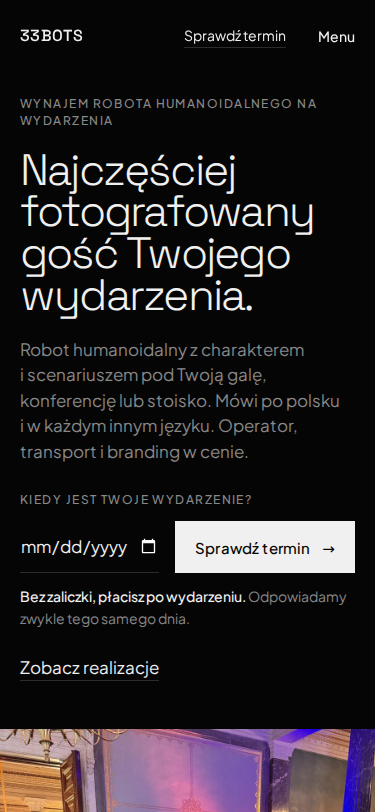
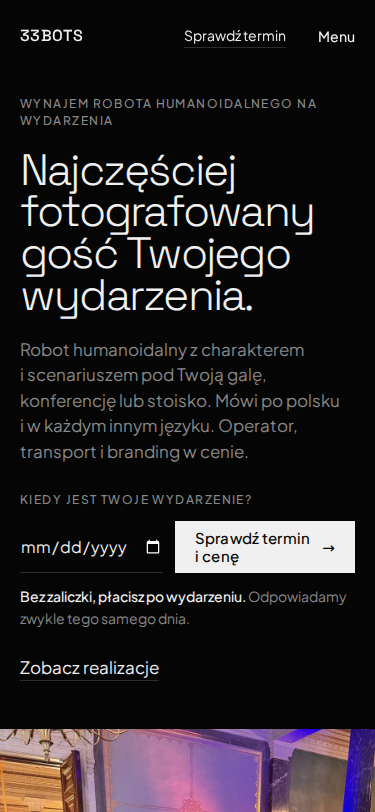
CTA .pl: „Sprawdź termin i cenę” zamiast „Sprawdź termin”
- hero, menu i formularz: przycisk obiecuje to, o co pyta każdy organizator —
  wolny termin i cenę; po sekcji cen: „Sprawdź termin i dokładną cenę”
- nawigacja i pasek mobilny zostają przy krótkim „Sprawdź termin”
- telefon: napis w dwóch liniach („Sprawdź termin / i cenę”), pole daty obok
  zostaje szerokie; kolumna minmax(0, 1fr), żeby rząd nie wychodził poza ekran

Claude-Session: https://claude.ai/code/session_01CABXHV9S3CJaXRngGHWVV2

diff --git a/index.html b/index.html
@@ -47,7 +47,7 @@ j=d.createElement(s),dl=l!='dataLayer'?'&l='+l:'';j.async=true;j.src=
 <link rel="stylesheet" href="assets-redesign.css?v=ecec55be" />
 
 <script>document.documentElement.classList.add('js');</script>
-<link rel="stylesheet" href="css/site.css?v=315bb713" />
+<link rel="stylesheet" href="css/site.css?v=d7bf1447" />
 
 <script type="application/ld+json">
 {"@context":"https://schema.org","@type":"Product","name":"Wynajem robota humanoidalnego Unitree G1","description":"Wynajem robota humanoidalnego Unitree G1 na eventy, targi i konferencje w całej Polsce.","url":"https://33bots.pl","image":"https://33bots.pl/robot-g1.jpg","brand":{"@type":"Brand","name":"Unitree"},"offers":{"@type":"AggregateOffer","priceCurrency":"PLN","lowPrice":"5500","highPrice":"6500","availability":"https://schema.org/InStock","url":"https://33bots.pl/#cennik","description":"Cały dzień realizacji z transportem, operatorem i brandingiem w cenie. Możliwy krótszy pokaz (wycena indywidualna) oraz realizacje wielodniowe z rabatem 15% na każdy dzień. Zero zaliczki, faktura po wydarzeniu."},"aggregateRating":{"@type":"AggregateRating","ratingValue":"5.0","reviewCount":"3","bestRating":"5","worstRating":"1"}}
@@ -225,7 +225,7 @@ height="0" width="0" style="display:none;visibility:hidden"></iframe></noscript>
       <li><a href="wdrozenia.html">Zakup i wdrożenia</a></li>
     </ul>
     <a class="nav__tel" href="tel:+48531408004" data-tel="menu">+48 531 408 004</a>
-    <a class="btn" href="#kontakt" data-cta="nav">Sprawdź dostępność terminu <span aria-hidden="true">→</span></a>
+    <a class="btn" href="#kontakt" data-cta="nav">Sprawdź termin i cenę <span aria-hidden="true">→</span></a>
   </div>
 </header>
 
@@ -244,7 +244,7 @@ height="0" width="0" style="display:none;visibility:hidden"></iframe></noscript>
         <label class="label" for="heroData">Kiedy jest Twoje wydarzenie?</label>
         <div class="termin__rzad">
           <input class="termin__data" type="date" id="heroData" />
-          <a class="btn" href="#kontakt" data-cta="hero">Sprawdź termin <span aria-hidden="true">→</span></a>
+          <a class="btn" href="#kontakt" data-cta="hero">Sprawdź&nbsp;termin i&nbsp;cenę <span aria-hidden="true">→</span></a>
         </div>
         <p class="termin__obietnica"><strong>Bez zaliczki, płacisz po wydarzeniu.</strong> Odpowiadamy zwykle tego samego dnia.</p>
       </div>
@@ -512,7 +512,7 @@ height="0" width="0" style="display:none;visibility:hidden"></iframe></noscript>
       </li>
     </ul>
     <p class="body formaty__wcenie">W&nbsp;cenie: operator, transport, branding (logo, kod QR), ubezpieczenie OC. <strong>Płacisz po wydarzeniu.</strong> Ostateczna kwota zależy od lokalizacji i&nbsp;długości trwania.</p>
-    <p class="formaty__cta"><a class="btn" href="#kontakt" data-cta="formaty">Sprawdź dostępność terminu <span aria-hidden="true">→</span></a></p>
+    <p class="formaty__cta"><a class="btn" href="#kontakt" data-cta="formaty">Sprawdź termin i dokładną cenę <span aria-hidden="true">→</span></a></p>
   </div>
 </section>
 
@@ -690,7 +690,7 @@ height="0" width="0" style="display:none;visibility:hidden"></iframe></noscript>
         </div>
         <div class="form-akcje">
           <button class="wstecz" type="button" id="wstecz">Wstecz</button>
-          <button class="btn" type="submit" id="wyslij">Sprawdź dostępność terminu <span aria-hidden="true">→</span></button>
+          <button class="btn" type="submit" id="wyslij">Sprawdź termin i cenę <span aria-hidden="true">→</span></button>
         </div>
         <p class="pole__blad" id="blad-wysylki" role="alert" hidden></p>
       </div>

diff --git a/css/site.css b/css/site.css
@@ -94,12 +94,13 @@ body { color: var(--text); font: 400 1.0625rem/1.6 var(--font-body); -webkit-fon
   padding-left: max(var(--margin), calc((100% - var(--container)) / 2 + var(--margin))); padding-right: 0; }
 .hero__text { grid-column: 1 / span 6; align-self: center; display: flex; flex-direction: column; gap: 32px; padding-block: 64px; padding-right: var(--gutter); }
 .hero__actions { display: flex; flex-wrap: wrap; align-items: center; gap: 16px 32px; margin-top: 16px; }
-/* Hero .pl: data wydarzenia i „Sprawdź termin” w jednym rzędzie, pod nimi obietnica.
-   Pole jak w formularzu rezerwacji — sama linia pod spodem, fokus na cyjanie. */
+/* Hero .pl: data wydarzenia i „Sprawdź termin i cenę” w jednym rzędzie, pod nimi obietnica.
+   Pole jak w formularzu rezerwacji — sama linia pod spodem, fokus na cyjanie.
+   Kolumna minmax(0, 1fr): pole daty zwęża się, zamiast wypychać rząd poza ekran. */
 .hero__actions--termin { flex-direction: column; align-items: flex-start; gap: 24px; margin-top: 8px; }
-.termin { display: grid; gap: 12px; width: 100%; max-width: 34rem; }
+.termin { display: grid; grid-template-columns: minmax(0, 1fr); gap: 12px; width: 100%; max-width: 34rem; }
 .termin__rzad { display: flex; align-items: stretch; gap: 16px; }
-.termin__data { flex: 1 1 11rem; min-width: 0; height: 52px; margin: 0; padding: 0; border: 0;
+.termin__data { flex: 1 1 11rem; width: 0; min-width: 0; height: 52px; margin: 0; padding: 0; border: 0;
   border-bottom: 1px solid var(--line-strong); border-radius: 0; background: transparent; color: var(--text);
   font: 400 1.0625rem/1.5 var(--font-body); color-scheme: dark; cursor: pointer; -webkit-appearance: none; appearance: none; }
 .termin__data::-webkit-date-and-time-value { text-align: left; }
@@ -629,6 +630,10 @@ html[data-a11y-motion="off"] *, html[data-a11y-motion="off"] *::before, html[dat
 @media (max-width: 767px) {
   .hero__text { padding-top: 24px; gap: 20px; }
   .hero .lead { font-size: 1.0625rem; }
+  /* „Sprawdź termin i cenę” w dwóch liniach — pole daty obok zostaje szerokie na całą datę. */
+  .termin__rzad { gap: 12px; }
+  .termin__data { font-size: 1rem; }
+  .termin__rzad .btn { flex: 0 1 auto; max-width: 11.25rem; white-space: normal; line-height: 1.2; text-align: left; }
 }
 @media (max-width: 359px) {
   .termin__rzad { flex-direction: column; gap: 8px; }

diff --git a/blog-atrakcje-eventowe.html b/blog-atrakcje-eventowe.html
@@ -29,7 +29,7 @@ j=d.createElement(s),dl=l!='dataLayer'?'&l='+l:'';j.async=true;j.src=
 <link rel="icon" type="image/svg+xml" href="favicon.svg" />
 <link rel="preload" as="font" type="font/woff2" crossorigin href="fonts/space-grotesk-latin-wght-normal.woff2" />
 <script>document.documentElement.classList.add('js');</script>
-<link rel="stylesheet" href="css/site.css?v=315bb713" />
+<link rel="stylesheet" href="css/site.css?v=d7bf1447" />
 <script type="application/ld+json">
 {
   "@context": "https://schema.org",

diff --git a/blog-ile-kosztuje-wynajem-robota.html b/blog-ile-kosztuje-wynajem-robota.html
@@ -29,7 +29,7 @@ j=d.createElement(s),dl=l!='dataLayer'?'&l='+l:'';j.async=true;j.src=
 <link rel="icon" type="image/svg+xml" href="favicon.svg" />
 <link rel="preload" as="font" type="font/woff2" crossorigin href="fonts/space-grotesk-latin-wght-normal.woff2" />
 <script>document.documentElement.classList.add('js');</script>
-<link rel="stylesheet" href="css/site.css?v=315bb713" />
+<link rel="stylesheet" href="css/site.css?v=d7bf1447" />
 <script type="application/ld+json">
 {
   "@context": "https://schema.org",

diff --git a/blog-lekcje-z-eventow-z-robotem.html b/blog-lekcje-z-eventow-z-robotem.html
@@ -29,7 +29,7 @@ j=d.createElement(s),dl=l!='dataLayer'?'&l='+l:'';j.async=true;j.src=
 <link rel="icon" type="image/svg+xml" href="favicon.svg" />
 <link rel="preload" as="font" type="font/woff2" crossorigin href="fonts/space-grotesk-latin-wght-normal.woff2" />
 <script>document.documentElement.classList.add('js');</script>
-<link rel="stylesheet" href="css/site.css?v=315bb713" />
+<link rel="stylesheet" href="css/site.css?v=d7bf1447" />
 <script type="application/ld+json">
 {
   "@context": "https://schema.org",

diff --git a/blog-robot-na-event-korporacyjny-przewodnik.html b/blog-robot-na-event-korporacyjny-przewodnik.html
@@ -29,7 +29,7 @@ j=d.createElement(s),dl=l!='dataLayer'?'&l='+l:'';j.async=true;j.src=
 <link rel="icon" type="image/svg+xml" href="favicon.svg" />
 <link rel="preload" as="font" type="font/woff2" crossorigin href="fonts/space-grotesk-latin-wght-normal.woff2" />
 <script>document.documentElement.classList.add('js');</script>
-<link rel="stylesheet" href="css/site.css?v=315bb713" />
+<link rel="stylesheet" href="css/site.css?v=d7bf1447" />
 <script type="application/ld+json">
 {
   "@context": "https://schema.org",

diff --git a/blog-robot-na-event-miedzynarodowy.html b/blog-robot-na-event-miedzynarodowy.html
@@ -29,7 +29,7 @@ j=d.createElement(s),dl=l!='dataLayer'?'&l='+l:'';j.async=true;j.src=
 <link rel="icon" type="image/svg+xml" href="favicon.svg" />
 <link rel="preload" as="font" type="font/woff2" crossorigin href="fonts/space-grotesk-latin-wght-normal.woff2" />
 <script>document.documentElement.classList.add('js');</script>
-<link rel="stylesheet" href="css/site.css?v=315bb713" />
+<link rel="stylesheet" href="css/site.css?v=d7bf1447" />
 <script type="application/ld+json">
 {
   "@context": "https://schema.org",

diff --git a/blog-robot-na-festyn-i-dni-gminy.html b/blog-robot-na-festyn-i-dni-gminy.html
@@ -29,7 +29,7 @@ j=d.createElement(s),dl=l!='dataLayer'?'&l='+l:'';j.async=true;j.src=
 <link rel="icon" type="image/svg+xml" href="favicon.svg" />
 <link rel="preload" as="font" type="font/woff2" crossorigin href="fonts/space-grotesk-latin-wght-normal.woff2" />
 <script>document.documentElement.classList.add('js');</script>
-<link rel="stylesheet" href="css/site.css?v=315bb713" />
+<link rel="stylesheet" href="css/site.css?v=d7bf1447" />
 <script type="application/ld+json">
 {
   "@context": "https://schema.org",

diff --git a/blog-wdrozenie-robota-humanoidalnego-w-firmie.html b/blog-wdrozenie-robota-humanoidalnego-w-firmie.html
@@ -29,7 +29,7 @@ j=d.createElement(s),dl=l!='dataLayer'?'&l='+l:'';j.async=true;j.src=
 <link rel="icon" type="image/svg+xml" href="favicon.svg" />
 <link rel="preload" as="font" type="font/woff2" crossorigin href="fonts/space-grotesk-latin-wght-normal.woff2" />
 <script>document.documentElement.classList.add('js');</script>
-<link rel="stylesheet" href="css/site.css?v=315bb713" />
+<link rel="stylesheet" href="css/site.css?v=d7bf1447" />
 <script type="application/ld+json">
 {
   "@context": "https://schema.org",
